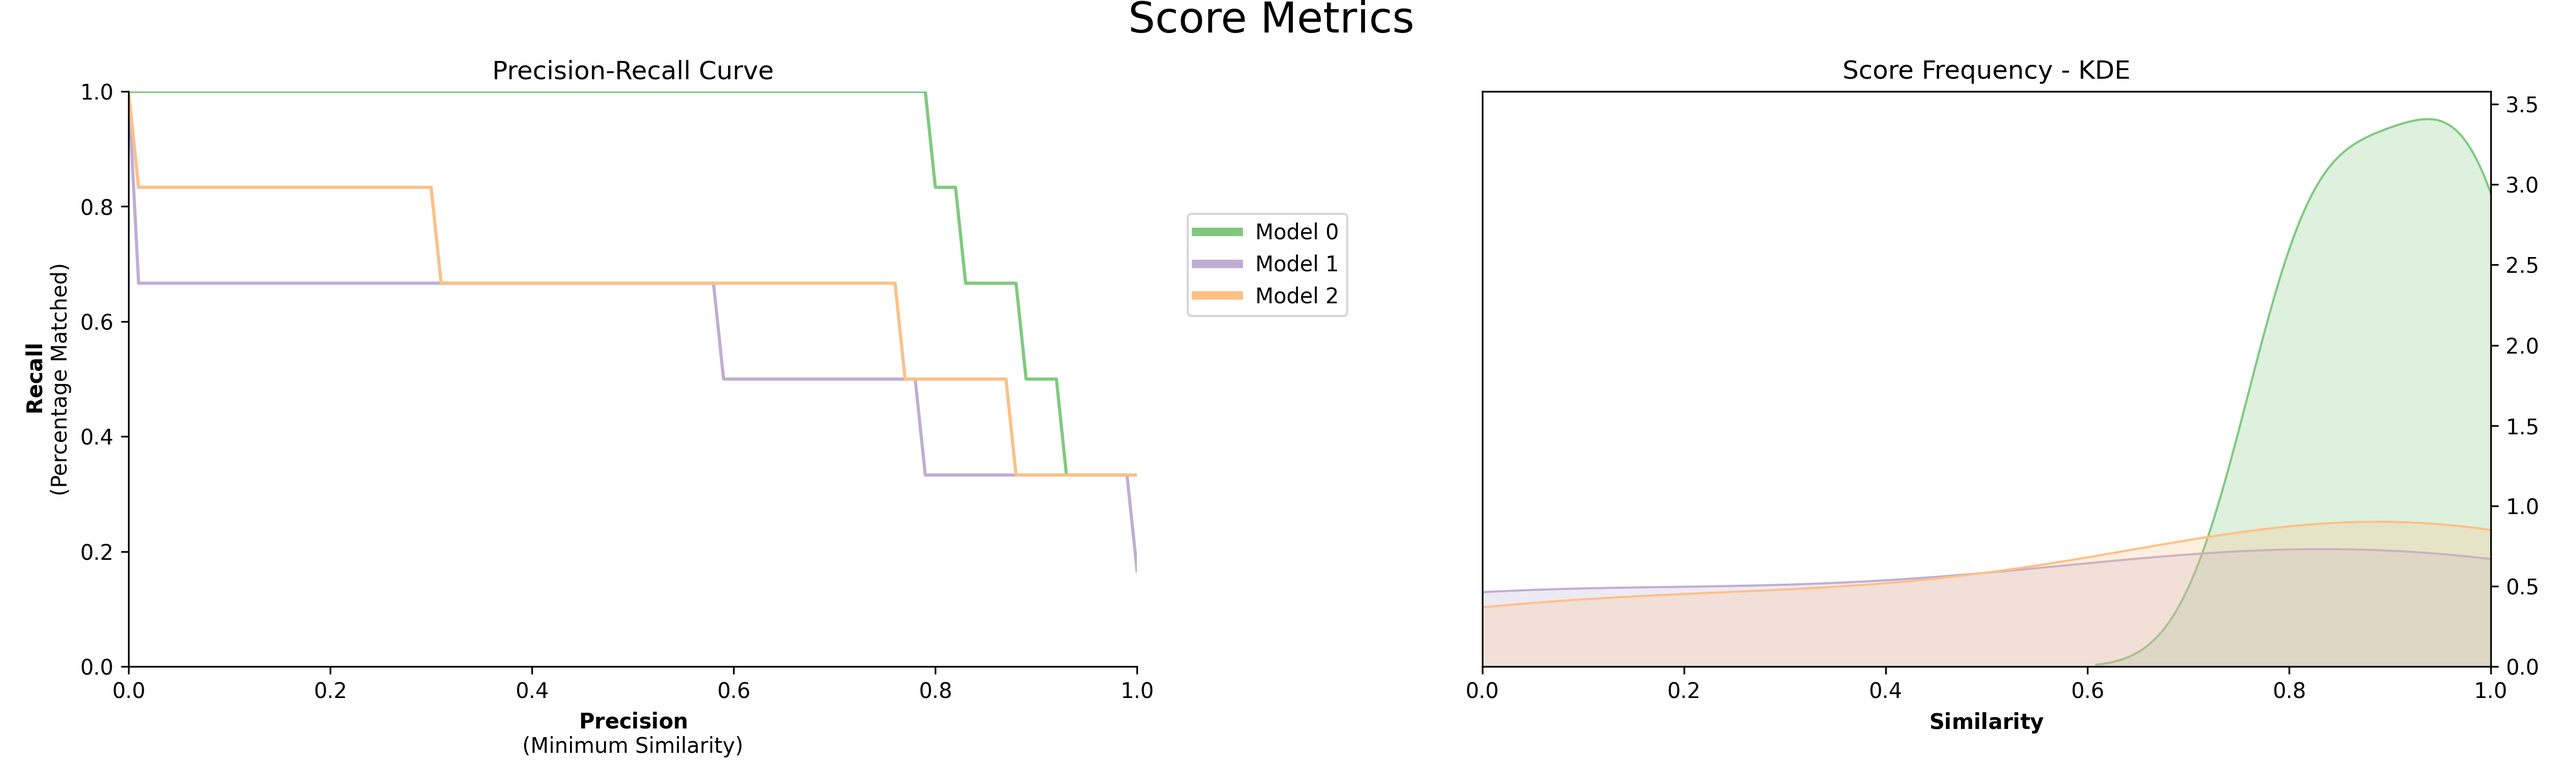
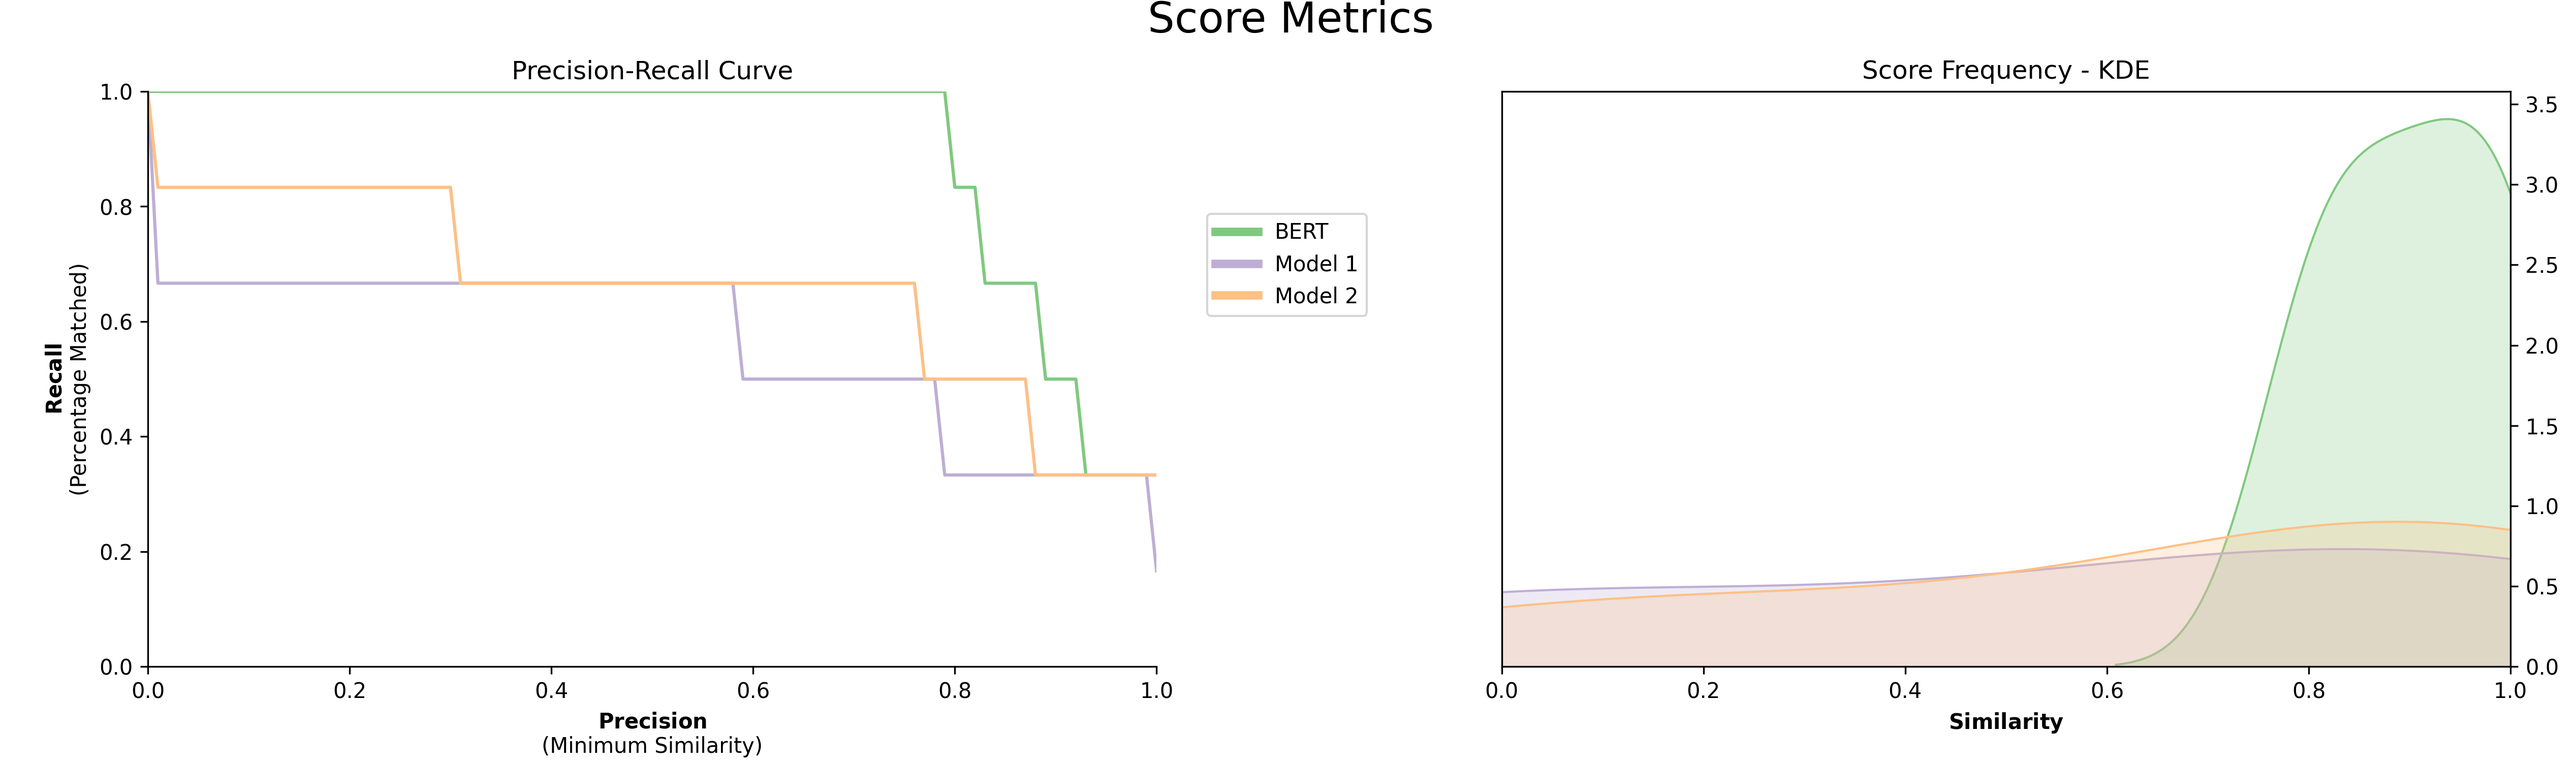
Update readme

diff --git a/README.md b/README.md
@@ -33,7 +33,7 @@ pip install polyfuzz[flair]
 <a name="gettingstarted"/></a>
 ## Getting Started
 
-For an in-depth overview of the possibilities of **`PolyFuzz`** 
+For an in-depth overview of the possibilities of `PolyFuzz` 
 you can check the full documentation [here](https://maartengr.github.io/PolyFuzz/) or you can follow along 
 with the notebook [here](https://github.com/MaartenGr/PolyFuzz/blob/master/notebooks/Overview.ipynb).
 
@@ -44,7 +44,6 @@ We start by defining two lists, one to map from and one to map to. We are going 
 n-grams on a character level in order to compare similarity between strings. 
 
 We only have to instantiate `PolyFuzz` with `TF-IDF` and match the lists:
-
 
 ```python
 from polyfuzz import PolyFuzz
@@ -69,20 +68,8 @@ The resulting matches can be accessed through `model.get_matches()`:
 
 ``` 
 
-**NOTE**: We instantiating `PolyFuzz` we also could have used "EditDistance" or "Embeddings" to quickly 
-access Levenshtein and FastText respectively. 
-
-### Precision Recall Curve  
-Next, we would like to see how well our model is doing on our data. We express our results as 
-**`precision`** and **`recall`** where precision is defined as the minimum similarity score before a match is correct and 
-recall the percentage of matches found at a certain minimum similarity score.  
-
-Creating the visualizations is as simple as:
-
-```python
-model.visualize_precision_recall()
-```
-<img src="images/tfidf.png" width="100%" height="100%"/>
+**NOTE**: When instantiating `PolyFuzz` we also could have used "EditDistance" or "Embeddings" to quickly 
+access Levenshtein and FastText (English) respectively. 
 
 ### Group Matches
 We can group the matches `To` as there might be significant overlap in strings in our to_list. 
@@ -111,49 +98,69 @@ will fall in the cluster of `[apples, apple]` and will be mapped to the first in
 
 For example, `appl` is mapped to apple and since apple falls into the cluster `[apples, apple]`, `appl` will be mapped to `apples`.
 
-## 🤗 Transformers
+### Precision-Recall Curve  
+Next, we would like to see how well our model is doing on our data. We express our results as 
+**`precision`** and **`recall`** where precision is defined as the minimum similarity score before a match is correct and 
+recall the percentage of matches found at a certain minimum similarity score.  
 
-With `Flair`, we can use all 🤗 Transformers that are publicly available. We simply have to instantiate any Flair
-WordEmbedding method and pass it through PolyFuzzy:  
+Creating the visualizations is as simple as:
 
-```python
-from polyfuzz.models import Embeddings
-from flair.embeddings import TransformerWordEmbeddings
-
-bert = TransformerWordEmbeddings('bert-base-multilingual-cased')
-bert_matcher = Embeddings(bert, matcher_id="BERT", min_similarity=0)
-model = PolyFuzz("TF-IDF")
 ```
+model.visualize_precision_recall()
+```
+<img src="images/tfidf.png" width="100%" height="100%"/> 
 
-For a full list of transformer models see [this](# https://huggingface.co/transformers/pretrained_models.html) link. 
+## Models
+Currently, there are several models implemented in PolyFuzz:
+* TF-IDF
+* EditDistance with RapidFuzz
+* FastText and GloVe
+* 🤗 Transformers
 
-## Multiple Models
-You might be interested in running multiple models with different matchers and different parameters in order to compare the best results.
-Fortunately, PolyFuzz allows you to exactly do this!
+With `Flair`, we can use all 🤗 Transformers that are 
+[publicly available](https://huggingface.co/transformers/pretrained_models.html). 
+We simply have to instantiate any Flair WordEmbedding method and pass it through PolyFuzzy.
 
-Below, you will find all models currently implemented in PolyFuzz and are compared against one another.
+All models listed above can be found in `polyfuzz.models` and can be used to create and compare different matchers:
 
 ```python
 from polyfuzz.models import EditDistance, TFIDF, Embeddings
 from flair.embeddings import TransformerWordEmbeddings
 
 bert = TransformerWordEmbeddings('bert-base-multilingual-cased')
-bert_matcher = Embeddings(bert, min_similarity=0)
+bert_matcher = Embeddings(bert, min_similarity=0, matcher_id="BERT")
 tfidf_matcher = TFIDF(min_similarity=0)
 edit_matcher = EditDistance()
 
 matchers = [bert_matcher, tfidf_matcher, edit_matcher]
+models = PolyFuzz(matchers).match(from_list, to_list)
 ```
 
-Then, we simply call `PolyFuzz` with all matchers and visualize the results:
+To access the results, we again can call `get_matches` but since we have multiple models we get back a dictionary 
+of dataframes back. 
 
-```
-model = PolyFuzz(matchers).match(from_list, to_list)
-model.visualize_precision_recall()
+In order to access the results of a specific model, call `get_matches` with the correct id: 
+
+```python
+>>> models.get_matches("BERT")
+    From	    To	    Similarity
+0	apple	    apple	1.000000
+1	apples	    apples	1.000000
+2	appl	    apple	0.928045
+3	recal	    apples	0.825268
+4	house	    mouse	0.887524
+5	similarity	mouse	0.791548
+``` 
+
+Finally, visualize the results to compare the models:
+
+```python
+models.visualize_precision_recall()
 ```
 
 <img src="images/multiple_models.png" width="100%" height="100%"/>
 
+**NOTE**: Call `models.get_ids()` to get all ids of models implemented.
 
 ## Custom Grouper
 We can even use one of the `polyfuzz.models` to be used as the grouper in case you would like to use 
@@ -167,7 +174,7 @@ model.group(base_edit_grouper)
 
 ## Custom Models
 Although the options above are a great solution for comparing different models, what if you have developed your own? 
-If you follow the structure of PolyFuzz's BaseMatcher 
+If you follow the structure of PolyFuzz's `BaseMatcher`  
 you can quickly implement any model you would like.
 
 Below, we are implementing the ratio similarity measure from RapidFuzz.
